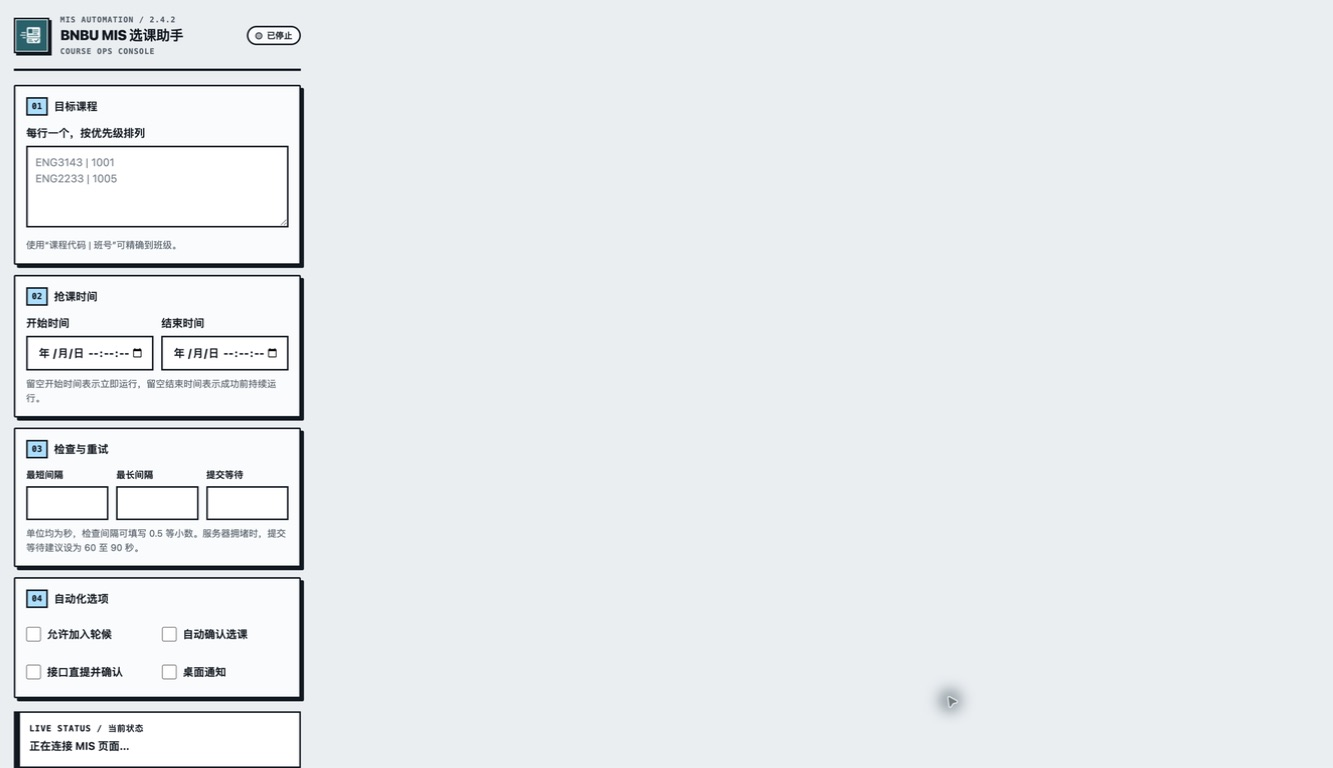
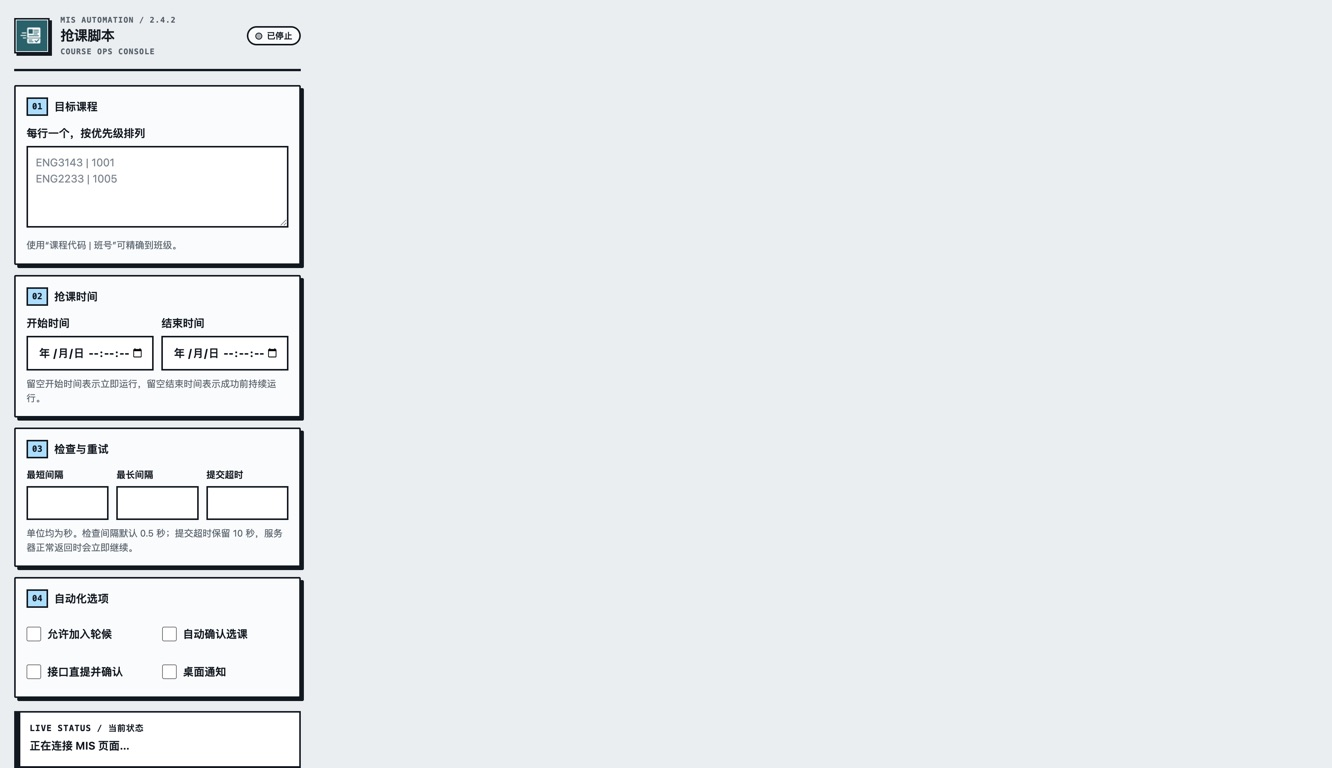
feat: rename and speed up grab script

diff --git a/mis-helper/index.html b/mis-helper/index.html
@@ -3,8 +3,8 @@
 <head>
     <meta charset="utf-8">
     <meta name="viewport" content="width=device-width, initial-scale=1">
-    <meta name="description" content="MIS 选课助手安装与使用指南">
-    <title>MIS 选课助手使用指南 · MAXCOURSE</title>
+    <meta name="description" content="抢课脚本安装与使用指南">
+    <title>抢课脚本使用指南 · MAXCOURSE</title>
     <link rel="icon" type="image/png" href="/favicon.png">
     <link rel="stylesheet" href="/vendor/fonts.css">
     <style>
@@ -656,7 +656,7 @@
         <section class="hero" aria-labelledby="page-title">
             <div>
                 <span class="kicker">Chrome Extension · v2.4.2</span>
-                <h1 id="page-title">MIS<br>选课助手</h1>
+                <h1 id="page-title">抢课<br>脚本</h1>
                 <p class="lede">在设定的时间窗口内监测目标课程，自动提交并确认选课。先用几分钟完成安装和配置，再让插件按你的优先级执行。</p>
                 <div class="hero-actions">
                     <a class="button" href="/bnbu-mis-course-helper-extension.zip" download>
@@ -672,9 +672,9 @@
 
             <aside class="product-card" aria-label="插件特点">
                 <div class="product-head">
-                    <img src="/mis-helper/assets/plugin-icon.png" width="128" height="128" alt="MIS 选课助手图标">
+                    <img src="/mis-helper/assets/plugin-icon.png" width="128" height="128" alt="抢课脚本图标">
                     <div>
-                        <strong>MIS 选课助手</strong>
+                        <strong>抢课脚本</strong>
                         <span class="mono">COURSE OPS CONSOLE</span>
                     </div>
                 </div>
@@ -700,7 +700,7 @@
                     <div class="console-frame">
                         <div class="console-toolbar" aria-hidden="true"><i></i><i></i><i></i></div>
                         <div class="console-viewport">
-                            <img src="/mis-helper/assets/plugin-console.jpeg" width="1333" height="768" alt="MIS 选课助手控制台，包含目标课程、抢课时间、检查与重试、自动化选项及当前状态">
+                            <img src="/mis-helper/assets/plugin-console.jpeg" width="1332" height="768" alt="抢课脚本控制台，包含目标课程、抢课时间、检查与重试、自动化选项及当前状态">
                         </div>
                     </div>
                     <figcaption>插件弹窗分成四个配置区。第一次使用时按从上到下的顺序填写即可。</figcaption>
@@ -749,7 +749,7 @@
                             <span class="step-number">05</span>
                             <div>
                                 <h3>固定到工具栏</h3>
-                                <p>点击 Chrome 右上角的扩展程序按钮，将“MIS 选课助手”固定到工具栏，之后就能随时打开控制台。</p>
+                                <p>点击 Chrome 右上角的扩展程序按钮，将“抢课脚本”固定到工具栏，之后就能随时打开控制台。</p>
                             </div>
                         </article>
                     </div>
@@ -778,7 +778,7 @@
                             <span class="step-number">03</span>
                             <div>
                                 <h3>设置检查与重试</h3>
-                                <p>最短间隔和最长间隔控制检查频率，单位为秒。服务器拥堵时，提交等待建议设置为 60 至 90 秒。</p>
+                                <p>最短间隔和最长间隔控制检查频率，建议都设为 0.5 秒。提交超时保留 10 秒即可，它不是固定等待，服务器正常返回时会立即继续，只有请求卡住才会在超时后刷新重试。</p>
                             </div>
                         </article>
                     </div>
@@ -843,7 +843,7 @@
             </details>
             <details>
                 <summary>为什么服务器拥堵时还是会等待？</summary>
-                <p>插件负责自动检查和提交，但无法提高学校服务器的处理速度。高峰期建议适当延长提交等待时间，并以 MIS 最终结果为准。</p>
+                <p>插件负责自动检查和提交，但无法提高学校服务器的处理速度。检查间隔可以设为 0.5 秒；提交超时建议保留 10 秒，正常响应会立即继续，只有请求卡住时才会等到超时后刷新重试。</p>
             </details>
             <details>
                 <summary>可以和油猴版本同时使用吗？</summary>
@@ -858,7 +858,7 @@
                 <svg viewBox="0 0 24 24" fill="none" stroke="currentColor" stroke-width="2.2" stroke-linecap="round" stroke-linejoin="round" aria-hidden="true">
                     <path d="M12 3v12"></path><path d="m7 10 5 5 5-5"></path><path d="M5 21h14"></path>
                 </svg>
-                下载 MIS 选课助手
+                下载抢课脚本
             </a>
         </section>
     </main>

diff --git a/index.html b/index.html
@@ -1,5 +1,5 @@
 <!DOCTYPE html>
-<html lang="en" data-compiled-sum="3168210923-331527+12027406">
+<html lang="en" data-compiled-sum="2485082105-331523+12027406">
 <head>
     <meta charset="UTF-8">
     <meta name="viewport" content="width=device-width, initial-scale=1.0">
@@ -9,11 +9,11 @@
     <link href="/vendor/fonts.css" rel="stylesheet">
     <!-- 预加载预编译产物:它在页尾才被引导脚本引用,不预加载的话要等整份
          HTML 下完解析完才开始下,跨境高延迟下白白串行一轮 -->
-    <link id="preload-app" rel="preload" href="/app.compiled.js?v=3168210923-331527+12027406" as="script">
+    <link id="preload-app" rel="preload" href="/app.compiled.js?v=2485082105-331523+12027406" as="script">
     <!-- Tailwind 静态化:precompile.js 用 JIT 把 index.html 里的类扫成
          tailwind.static.css(gzip 后 ~9KB),替代 138KB(gz)的 play CDN 脚本
          和每次加载的运行时扫描;样式表 404 时回退加载本地 play CDN 脚本 -->
-    <link id="tailwind-css" rel="stylesheet" href="/tailwind.static.css?v=3168210923-331527+12027406" onerror="var s=document.createElement('script');s.src='/vendor/tailwind.js';document.head.appendChild(s);">
+    <link id="tailwind-css" rel="stylesheet" href="/tailwind.static.css?v=2485082105-331523+12027406" onerror="var s=document.createElement('script');s.src='/vendor/tailwind.js';document.head.appendChild(s);">
     <script>
     // vendor 兜底:老写法 onerror 里改 this.src 不会重新抓取(死代码)。
     // onerror 在解析期同步触发,document.write 注入的镜像脚本保持阻塞顺序。
@@ -3366,7 +3366,7 @@
             },
             {
                 key: 'mis-course-helper',
-                title: 'MIS 选课助手',
+                title: '抢课脚本',
                 subtitle: '定时监测课程并自动提交选课',
                 description: 'Chrome 扩展，可设置课程、班号和时间窗口，自动刷新、提交并确认选课。',
                 href: '/mis-helper/index.html',

diff --git a/app.compiled.js b/app.compiled.js
@@ -1,5 +1,5 @@
 // GENERATED by precompile.js from index.html — do not edit by hand.
-// stamp 3168210923-331527+12027406
+// stamp 2485082105-331523+12027406
 function _extends() { return _extends = Object.assign ? Object.assign.bind() : function (n) { for (var e = 1; e < arguments.length; e++) { var t = arguments[e]; for (var r in t) ({}).hasOwnProperty.call(t, r) && (n[r] = t[r]); } return n; }, _extends.apply(null, arguments); }
 const {
   useState,
@@ -3405,7 +3405,7 @@ const TOOLBOX_ITEMS = [{
   cta: '查看插件'
 }, {
   key: 'mis-course-helper',
-  title: 'MIS 选课助手',
+  title: '抢课脚本',
   subtitle: '定时监测课程并自动提交选课',
   description: 'Chrome 扩展，可设置课程、班号和时间窗口，自动刷新、提交并确认选课。',
   href: '/mis-helper/index.html',
